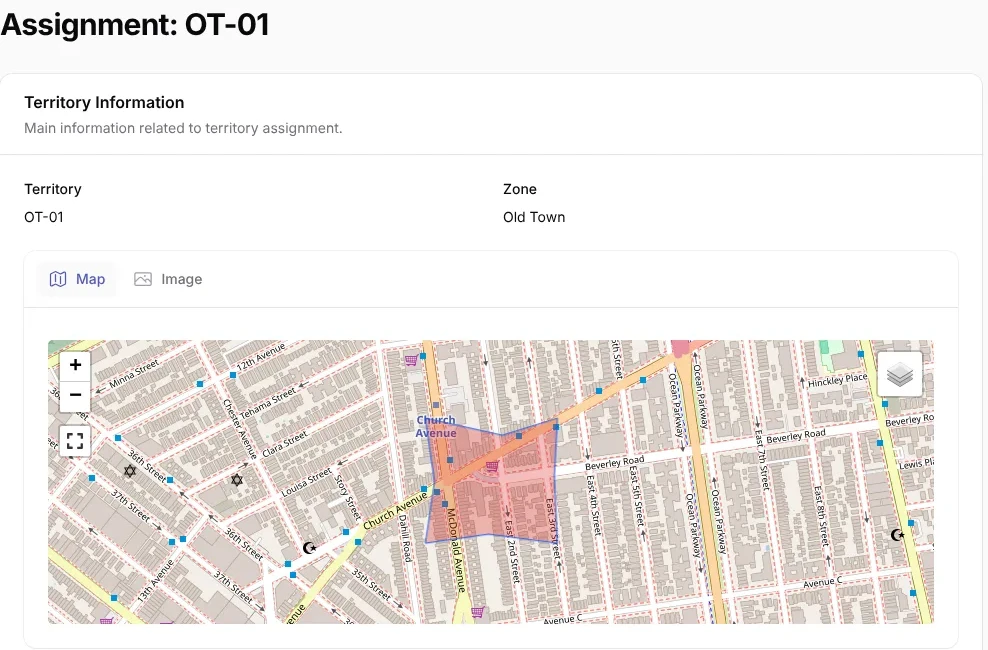
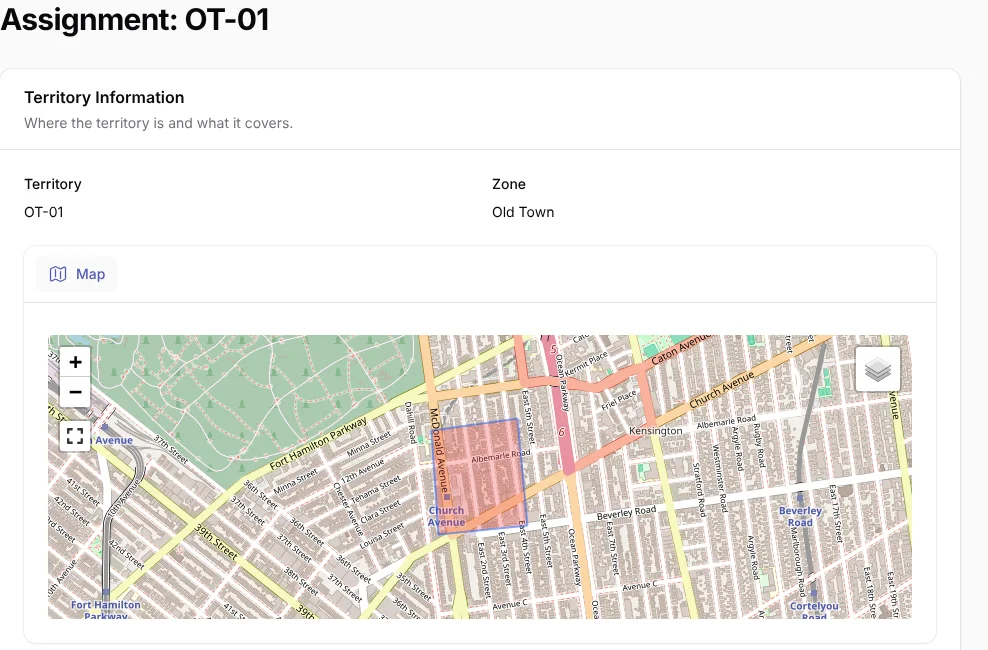
fix(sharing): tidy up the shared assignment page (#86)
Drop the guest panel navigation, show the assignment dates
localized in the app timezone and give each section its own
description. Refresh the shared page screenshots.

diff --git a/tests/Feature/SharedAssignmentPageTest.php b/tests/Feature/SharedAssignmentPageTest.php
@@ -5,6 +5,7 @@ use App\Models\Territory;
 use App\Models\TerritoryAssignment;
 use App\Models\TerritoryZone;
 use App\Models\User;
+use Illuminate\Support\Facades\Facade;
 use Illuminate\Support\Facades\Notification;
 
 beforeEach(function () {
@@ -28,6 +29,8 @@ beforeEach(function () {
 
     // Sharing loads the settings: forget them, so that they follow the configuration set by each test
     app()->forgetScopedInstances();
+    // The Filament manager is scoped too: let its facade resolve the new one, which the layout reads the panel from
+    Facade::clearResolvedInstance('filament');
 });
 
 test('shared assignment pages render with the built frontend assets', function () {
@@ -82,4 +85,40 @@ test('the crawlers can fetch the shared pages, so that they read that they must 
 
 test('the pages of the application can still be indexed', function () {
     $this->get('/')->assertHeaderMissing('X-Robots-Tag');
+});
+
+test('shared assignment pages have no navigation', function () {
+    $this->withoutVite();
+
+    $this->get('/guest/shared-assignment/'.$this->sharedUrl->uid)
+        ->assertOk()
+        ->assertSee('fi-panel-guest', escape: false)
+        ->assertDontSee('fi-sidebar-nav', escape: false);
+});
+
+test('shared assignment pages show the dates formatted with the locale and the timezone of the application', function () {
+    $this->withoutVite();
+    config(['app.timezone' => 'Europe/Rome']);
+
+    $startedAt = now('UTC')->subDays(3)->setTime(21, 45);
+    $this->assignment->update(['started_at' => $startedAt]);
+
+    $this->get('/guest/shared-assignment/'.$this->sharedUrl->uid)
+        ->assertOk()
+        ->assertSee($startedAt->copy()->setTimezone('Europe/Rome')->locale(app()->getLocale())->isoFormat('LLL'))
+        ->assertDontSee($startedAt->format('Y-m-d H:i:s'));
+});
+
+test('shared assignment pages describe each section differently', function () {
+    $this->withoutVite();
+
+    foreach (['en', 'it', 'es'] as $locale) {
+        expect(__('filament-resources.territory_assignment.section_territory_info_description', locale: $locale))
+            ->not->toBe(__('filament-resources.territory_assignment.section_assignment_info_description', locale: $locale));
+    }
+
+    $this->get('/guest/shared-assignment/'.$this->sharedUrl->uid)
+        ->assertOk()
+        ->assertSee(__('filament-resources.territory_assignment.section_territory_info_description'))
+        ->assertSee(__('filament-resources.territory_assignment.section_assignment_info_description'));
 });

diff --git a/app/Filament/Resources/TerritoryAssignments/TerritoryAssignmentResource.php b/app/Filament/Resources/TerritoryAssignments/TerritoryAssignmentResource.php
@@ -136,6 +136,14 @@ class TerritoryAssignmentResource extends Resource
     }
 
     /**
+     * Timezone of the dates shown: the one of the user, or the one of the application for the guests of a shared page.
+     */
+    public static function getDisplayTimezone(): string
+    {
+        return Auth::user()?->timezone ?? config('app.timezone');
+    }
+
+    /**
      * Personal data (assignee name, notes) is hidden on publicly shared pages
      * unless enabled from the Settings pages (or with `ENABLE_SHARED_PII`).
      */
@@ -383,11 +391,13 @@ class TerritoryAssignmentResource extends Resource
                         TextEntry::make('started_at')
                             ->icon(Heroicon::OutlinedCalendar)
                             ->isoDateTime()
+                            ->timezone(fn (): string => static::getDisplayTimezone())
                             ->sinceTooltip()
                             ->label(__('filament-resources.territory_assignment.info_start_assignment')),
                         TextEntry::make('ended_at')
                             ->icon(Heroicon::OutlinedCalendar)
                             ->isoDateTime()
+                            ->timezone(fn (): string => static::getDisplayTimezone())
                             ->sinceTooltip()
                             ->visible(fn (Model $record) => $record->ended_at != null)
                             ->label(__('filament-resources.territory_assignment.info_end_assignment'))

diff --git a/lang/it/filament-resources.php b/lang/it/filament-resources.php
@@ -187,9 +187,9 @@ return [
         'model_label' => 'assegnazione',
         'plural_model_label' => 'assegnazioni',
         'section_territory_info' => 'Informazioni territorio',
-        'section_territory_info_description' => 'Informazioni principali relative all\'assegnazione del territorio.',
+        'section_territory_info_description' => 'Dove si trova il territorio e cosa comprende.',
         'section_assignment_info' => 'Informazioni assegnazione',
-        'section_assignment_info_description' => 'Informazioni principali relative all\'assegnazione del territorio.',
+        'section_assignment_info_description' => 'Quando è stato assegnato il territorio, e per quale campagna.',
         'section_base_info' => 'Informazioni base',
         'section_main_info' => 'Informazioni principali',
         'section_additional_info' => 'Informazioni aggiuntive',

diff --git a/lang/es/filament-resources.php b/lang/es/filament-resources.php
@@ -187,9 +187,9 @@ return [
         'model_label' => 'asignación',
         'plural_model_label' => 'asignaciones',
         'section_territory_info' => 'Información del Territorio',
-        'section_territory_info_description' => 'Información principal relacionada con la asignación del territorio.',
+        'section_territory_info_description' => 'Dónde está el territorio y qué abarca.',
         'section_assignment_info' => 'Información de Asignación',
-        'section_assignment_info_description' => 'Información principal relacionada con la asignación del territorio.',
+        'section_assignment_info_description' => 'Cuándo se asignó el territorio, y para qué campaña.',
         'section_base_info' => 'Información Base',
         'section_main_info' => 'Información Principal',
         'section_additional_info' => 'Información Adicional',

diff --git a/app/Filament/Guest/Pages/ViewSharedAssignment.php b/app/Filament/Guest/Pages/ViewSharedAssignment.php
@@ -12,6 +12,7 @@ use Filament\Infolists\Contracts\HasInfolists;
 use Filament\Pages\Page;
 use Filament\Panel;
 use Filament\Schemas\Schema;
+use Filament\Support\Enums\Width;
 use Filament\Support\Icons\Heroicon;
 
 class ViewSharedAssignment extends Page implements HasInfolists
@@ -66,6 +67,14 @@ class ViewSharedAssignment extends Page implements HasInfolists
     public function assignmentInfolist(Schema $schema): Schema
     {
         return TerritoryAssignmentResource::infolist($schema)->record($this->assignment);
+    }
+
+    /**
+     * Narrower than the pages of the application, which have a sidebar beside them: easier to read on a wide screen.
+     */
+    public function getMaxContentWidth(): Width
+    {
+        return Width::FiveExtraLarge;
     }
 
     public static function getRoutePath(Panel $panel): string

diff --git a/lang/en/filament-resources.php b/lang/en/filament-resources.php
@@ -187,9 +187,9 @@ return [
         'model_label' => 'assignment',
         'plural_model_label' => 'assignments',
         'section_territory_info' => 'Territory Information',
-        'section_territory_info_description' => 'Main information related to territory assignment.',
+        'section_territory_info_description' => 'Where the territory is and what it covers.',
         'section_assignment_info' => 'Assignment Information',
-        'section_assignment_info_description' => 'Main information related to territory assignment.',
+        'section_assignment_info_description' => 'When the territory was assigned, and for which campaign.',
         'section_base_info' => 'Base Information',
         'section_main_info' => 'Main Information',
         'section_additional_info' => 'Additional Information',

diff --git a/app/Providers/Filament/GuestPanelProvider.php b/app/Providers/Filament/GuestPanelProvider.php
@@ -34,6 +34,8 @@ class GuestPanelProvider extends PanelProvider
                 'primary' => Color::Amber,
             ])
             ->themeSwitcher(false)
+            // The panel only hosts the pages opened from share links: a sidebar would have nothing useful to offer
+            ->navigation(false)
             // ->resources([
             //     // Resources can be added here if needed
             // ])

diff --git a/CHANGELOG.md b/CHANGELOG.md
@@ -11,6 +11,10 @@ and this project adheres to [Semantic Versioning](https://semver.org/spec/v2.0.0
 
 - **Welcome page**: lists notifications, publications and public witnessing among the features, and no longer mentions
   teams, which the app doesn't have.
+- **Shared assignment page**: no sidebar any more, the assignment dates are shown in the language of the page and in
+  the timezone of the congregation, and each section has its own description. The page of an assignment in the app
+  shows the start and end dates the same way, and the same section descriptions
+  ([#86](https://github.com/OpenCHelper/OpenCongregationHelper/pull/86)).
 
 ### Fixed
 
